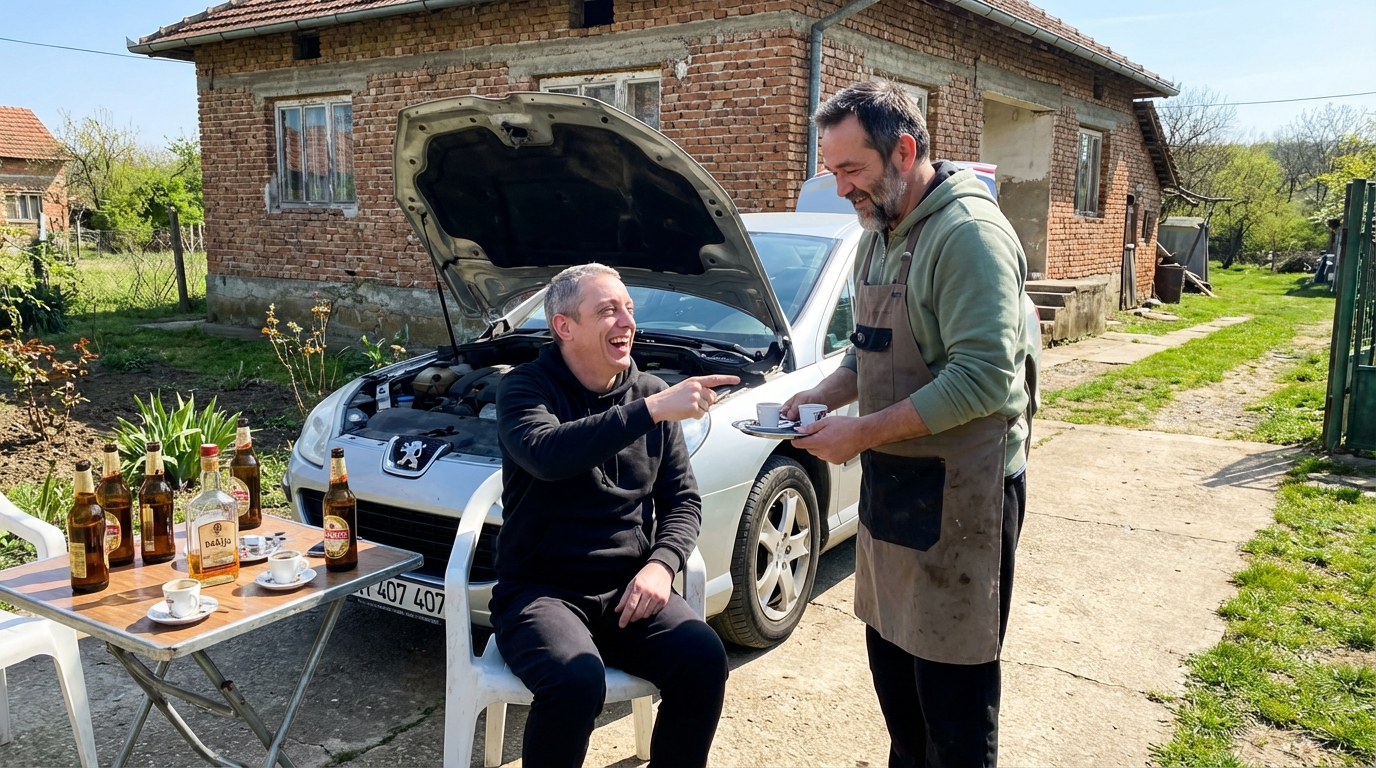
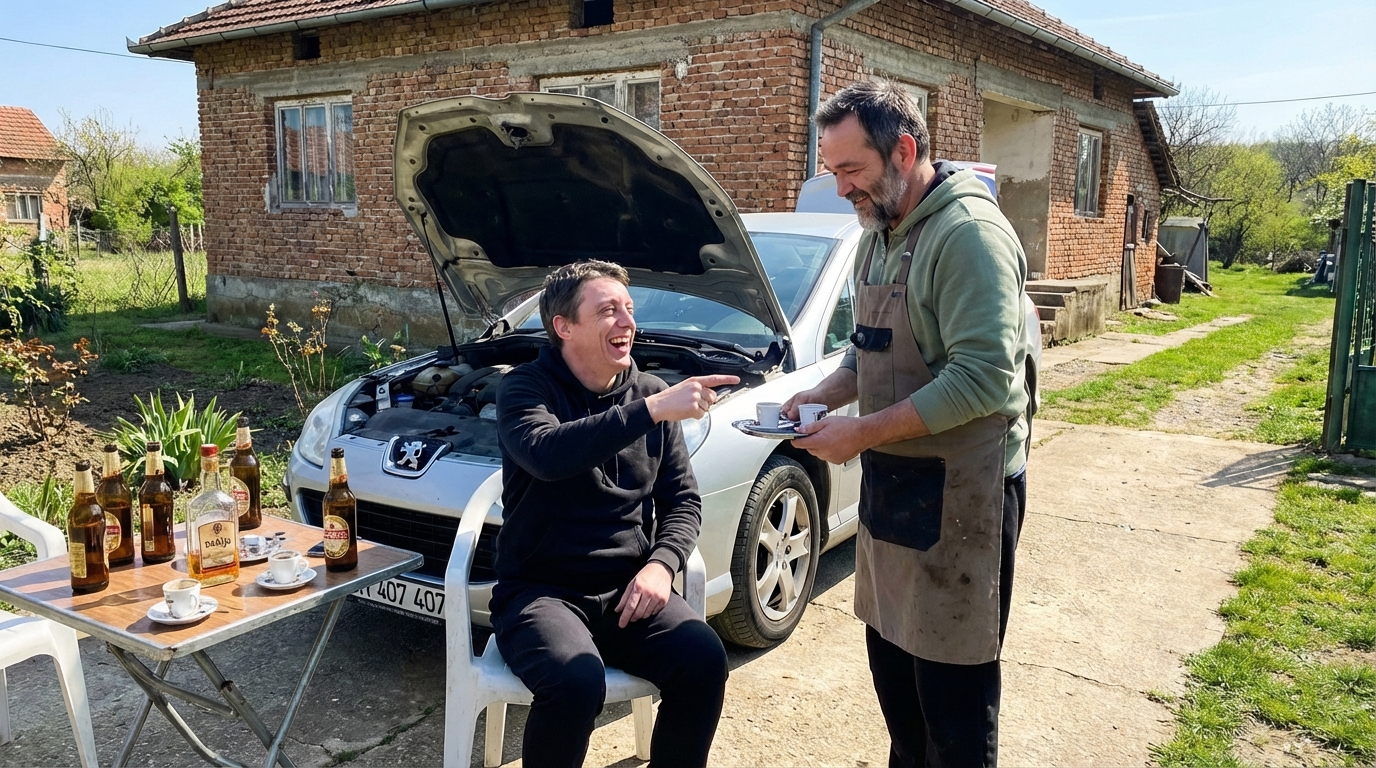
Fix Milan hair color, add lightbox for images
- Regenerated images with darker hair for Milan
- Added click-to-zoom lightbox on before/after images
- Hover zoom effect on image cards

diff --git a/index.html b/index.html
@@ -233,6 +233,12 @@
         </div>
     </footer>
 
+    <!-- LIGHTBOX -->
+    <div class="lightbox" id="lightbox">
+        <button class="lightbox-close" id="lightbox-close">&times;</button>
+        <img class="lightbox-img" id="lightbox-img" src="" alt="">
+    </div>
+
     <script>
         // Mobile menu
         const hamburger = document.getElementById('hamburger');
@@ -263,6 +269,34 @@
             });
         }, { threshold: 0.1 });
         document.querySelectorAll('.fade-in').forEach(el => observer.observe(el));
+
+        // Lightbox
+        const lightbox = document.getElementById('lightbox');
+        const lightboxImg = document.getElementById('lightbox-img');
+        document.querySelectorAll('.ba-card img').forEach(img => {
+            img.style.cursor = 'pointer';
+            img.addEventListener('click', () => {
+                lightboxImg.src = img.src;
+                lightbox.classList.add('active');
+                document.body.style.overflow = 'hidden';
+            });
+        });
+        document.getElementById('lightbox-close').addEventListener('click', () => {
+            lightbox.classList.remove('active');
+            document.body.style.overflow = '';
+        });
+        lightbox.addEventListener('click', (e) => {
+            if (e.target === lightbox) {
+                lightbox.classList.remove('active');
+                document.body.style.overflow = '';
+            }
+        });
+        document.addEventListener('keydown', (e) => {
+            if (e.key === 'Escape') {
+                lightbox.classList.remove('active');
+                document.body.style.overflow = '';
+            }
+        });
     </script>
 
 </body>

diff --git a/assets/css/style.css b/assets/css/style.css
@@ -538,6 +538,60 @@ img {
     letter-spacing: 1px;
 }
 
+/* ========== LIGHTBOX ========== */
+.lightbox {
+    position: fixed;
+    top: 0;
+    left: 0;
+    right: 0;
+    bottom: 0;
+    background: rgba(0, 0, 0, 0.92);
+    z-index: 2000;
+    display: flex;
+    align-items: center;
+    justify-content: center;
+    opacity: 0;
+    pointer-events: none;
+    transition: opacity 0.3s ease;
+}
+
+.lightbox.active {
+    opacity: 1;
+    pointer-events: all;
+}
+
+.lightbox-img {
+    max-width: 90vw;
+    max-height: 90vh;
+    object-fit: contain;
+    border-radius: 8px;
+}
+
+.lightbox-close {
+    position: absolute;
+    top: 20px;
+    right: 28px;
+    font-size: 2.5rem;
+    color: var(--color-white);
+    background: none;
+    border: none;
+    cursor: pointer;
+    line-height: 1;
+    transition: color var(--transition);
+}
+
+.lightbox-close:hover {
+    color: var(--color-amber);
+}
+
+.ba-card img {
+    transition: transform var(--transition);
+}
+
+.ba-card:hover img {
+    transform: scale(1.03);
+}
+
 /* ========== KONTAKT ========== */
 .kontakt {
     background: var(--color-bg-light);
